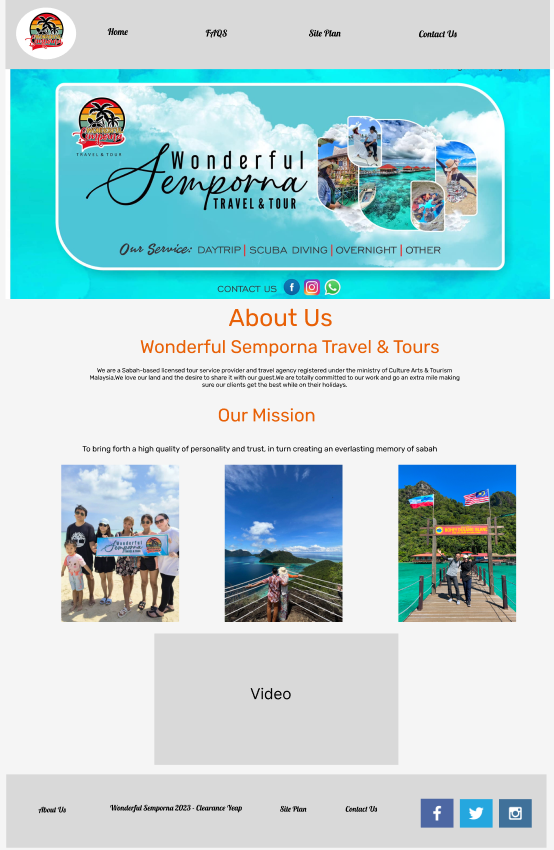
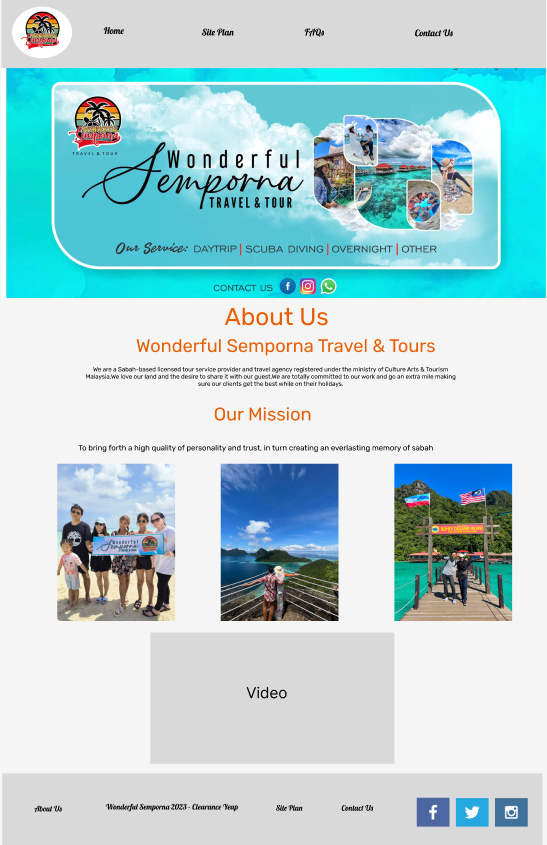
site new added

diff --git a/wdd130/home.html b/wdd130/home.html
@@ -4,18 +4,18 @@
 
     <meta charset="UTF-8">
     <meta name="viewport" content="width=device-width, initial-scale=1.0">
-    <link rel="stylesheet" href="styles/index.css">
+    <link rel="stylesheet" href="styles/home.css">
     <title>Whitewater Rafting Vacation | Dry Oar Boating | Home</title>
 </head>
 <body>
     <header>
-        <a id="logo_link" href="index.html">
+        <a id="logo_link" href="home.html">
             <img class="logo" src="images/wonderful.png" alt="Wonderful Logo">
         </a>
         <nav>
-            <a href="index.html">Home</a>
-            <a href="page2.html">Page 2</a>
             <a href="site-plan.html">Site Plan</a>
+            <a href="aboutus.html">About US</a>
+            <a href="faqs.html">FAQs</a>
             <a href="Contactus.html">Contact Us</a>
         </nav>
     </header>

diff --git a/wdd130/site-plan.html b/wdd130/site-plan.html
@@ -96,9 +96,9 @@
       </h3>
       <!-- Think about how you want your navigation bar to look. In the site-plan.css file change the colors to your colors to get the look you desire. --> 
       <nav>
-        <a href="#">Home</a>
-        <a href="#">About Us</a>
-        <a href="#">FAQs</a>
+        <a href="home.html">Home</a>
+        <a href="aboutus.html">About Us</a>
+        <a href="faqs.html">FAQs</a>
       </nav>
       <hr>
       <h2>
@@ -225,7 +225,7 @@
          be different. So I will find my design CSS for my header Images which still need to find a perfect
          images for header
       </p>
-      <img src="images/FAQs Wireframe.png" alt="FAQs Wireframe">
+      <img src="images/FAQs_wireframe.png" alt="FAQs Wireframe">
     </main>
   </body>
 

diff --git a/wdd130/aboutus.html b/wdd130/aboutus.html
@@ -22,7 +22,7 @@
             <img class="logo" src="images/wonderful.png" alt="Wonderful Logo">
         </a>
         <nav>
-            <a href="index.html">Home</a>
+            <a href="home.html">Home</a>
             <a href="faqs.html">FAQs</a>
             <a href="site-plan.html">Site Plan</a>
             <a href="Contactus.html">Contact Us</a>
